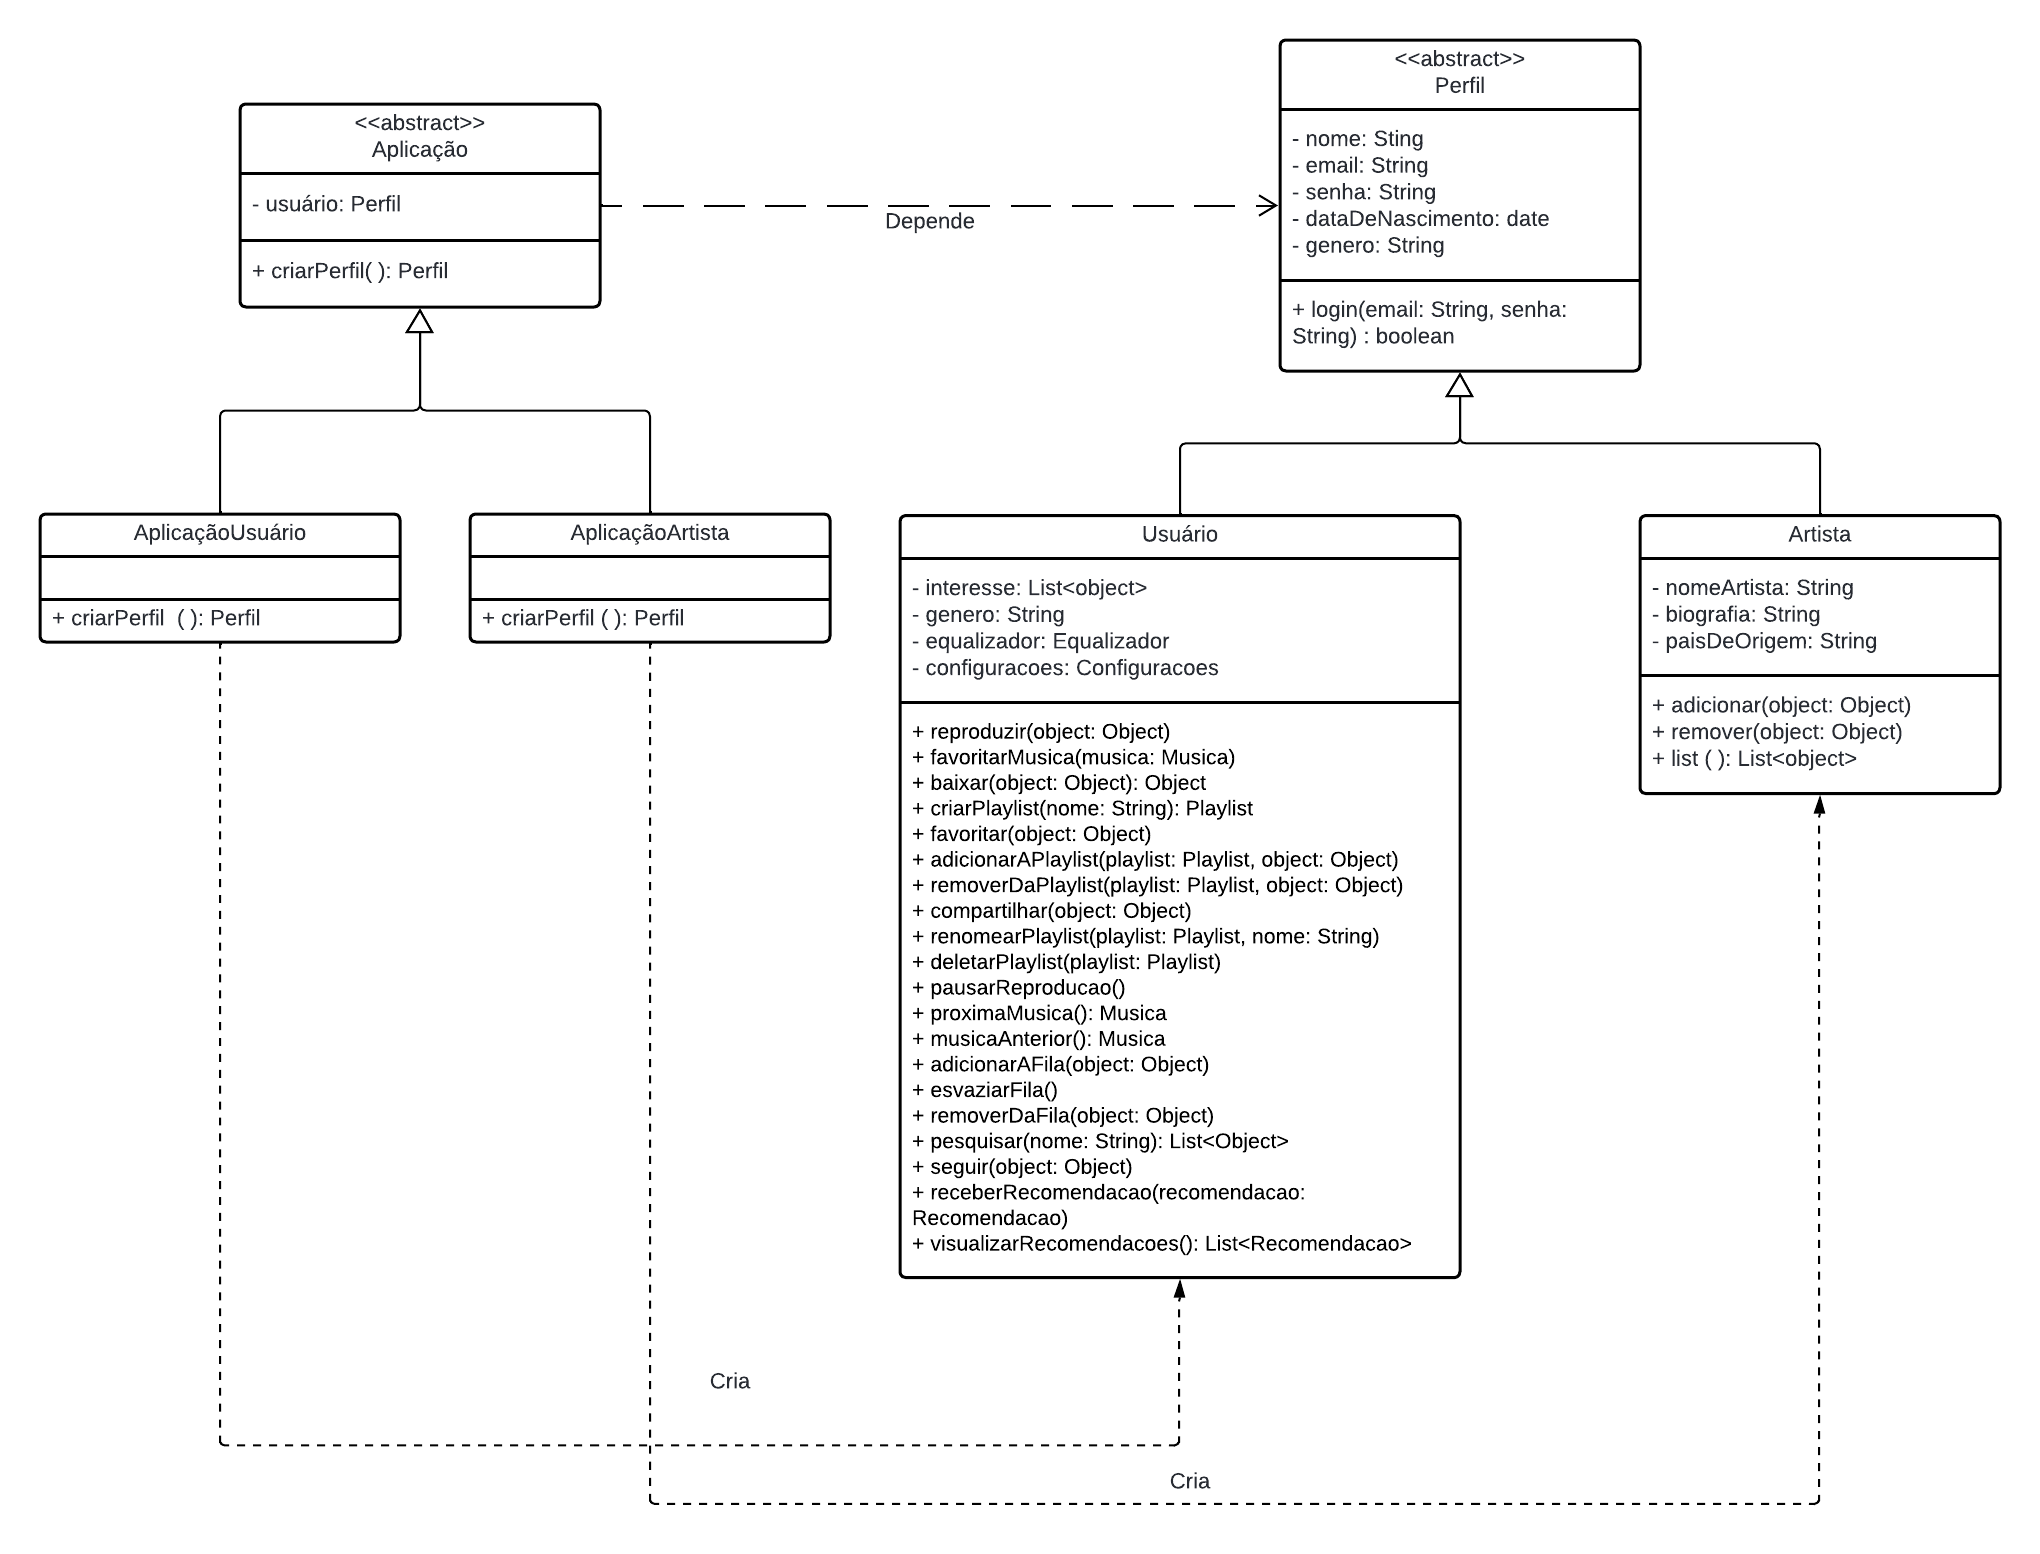
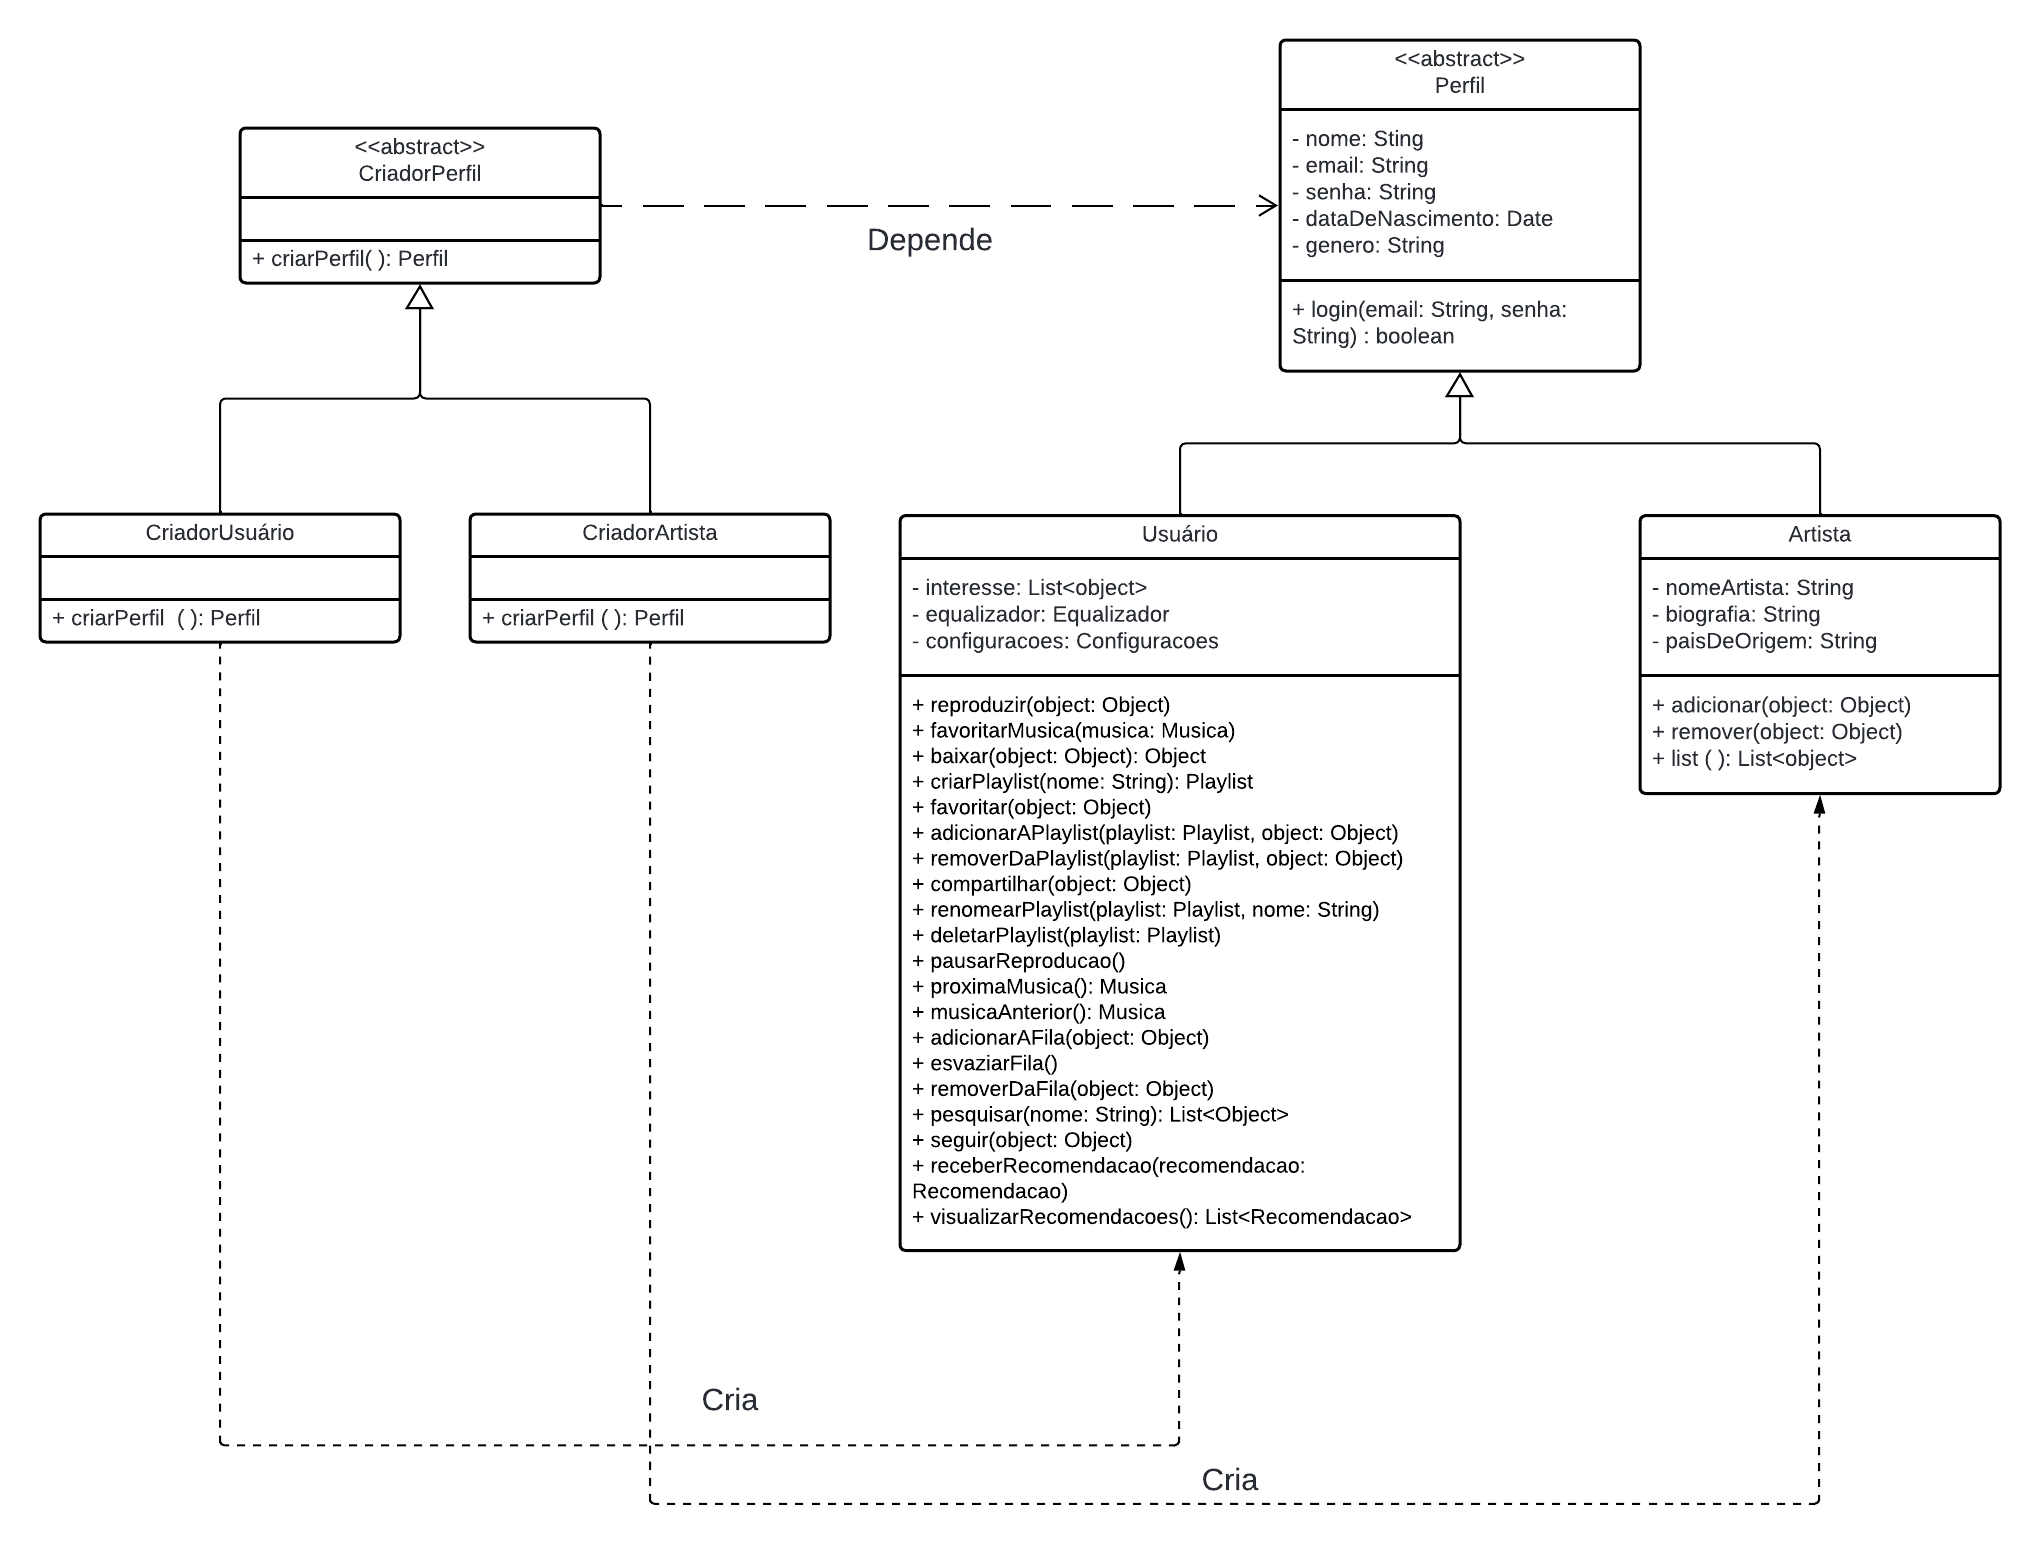
att: Terminando de atualizar factory method

diff --git a/docs/PadroesDeProjeto/GoFsCriacionais.md b/docs/PadroesDeProjeto/GoFsCriacionais.md
@@ -24,29 +24,28 @@ delegada.
 
 <div style="text-align: center">
   <img src="../Assets/EstruturaFactoryMethod.png" alt="Estrutura do Factory Method" title="Título da Imagem" />
-  <p>Figura 1: Estrutura do padrão Factory Method (Fonte: Refactoring Guru, 2014-2024)¹</p>
+  <p>Figura 1: Estrutura do padrão Factory Method (Fonte: Refactoring Guru, 2014-2024)²</p>
 </div>
 
 
 ### Metodologia
 
-Antes de descrever como foi realizada a modelagem e a implementação dos padrões criacionais utilizados, é importante ressaltar como a equipe foi organizada para a realização deste artefato. Foi criado um subgrupo composto por quatro pessoas: Limírio, Luis Miranda, Milena e Vinícius Mendes. Todos participaram ativamente através de discussões em grupo e na realização das atividades.
+Antes de descrever como foi realizada a modelagem e a implementação dos padrões criacionais utilizados, é importante ressaltar como a equipe foi organizada para a realização deste artefato. Foi criado um subgrupo composto por quatro pessoas: [Limírio Guimarães](https://github.com/LimirioGuimaraes), [Luis Miranda](https://github.com/LuisMiranda10), [Milena Baruc](https://github.com/MilenaBaruc) e [Vinícius Mendes](https://github.com/yabamiah). Todos participaram ativamente através de discussões em grupo e na realização das atividades.
 
-Para o desenvolvimento da modelagem do Factory Method no contexto do nosso projeto, realizamos uma reunião em grupo para discutir onde e como o padrão poderia ser aplicado. A vídeo dessa reunião pode ser acessada [aqui](). Durante essa reunião, utilizamos dois sites como referências teóricas para termos um embasamento adequado.
+Para o desenvolvimento da modelagem do Factory Method no contexto do nosso projeto, realizamos uma reunião em grupo para discutir onde e como o padrão poderia ser aplicado. A vídeo dessa reunião pode ser acessada [aqui](https://youtu.be/okhCMuSxa2w). Durante essa reunião, utilizamos dois sites como referências teóricas para termos um embasamento adequado.
 
-Decidimos que poderíamos utilizar o padrão Factory Method na criação da classe abstrata `Perfil`. Essa superclasse possui duas subclasses, `Usuário` e `Artista`, cujas instâncias mudam conforme o contexto, permitindo funcionalidades diferentes no aplicativo para cada tipo de perfil. A modelagem foi realizada pelos membros Luis Miranda e Vinicius Mendes, conforme visualizado na Figura 2.
+Decidimos que poderíamos utilizar o padrão Factory Method na criação da classe abstrata `Perfil`. Essa superclasse possui duas subclasses, `Usuário` e `Artista`, cujas instâncias mudam conforme o contexto, permitindo funcionalidades diferentes no aplicativo para cada tipo de perfil. A modelagem foi realizada pelos membros [Luis Miranda](https://github.com/LuisMiranda10) e [Vinícius Mendes](https://github.com/yabamiah), conforme visualizado na Figura 2.
 
 <div style="text-align: center">
   <img src="../Assets/ModelagemFactoryMethod.png" alt="Modelagem do padrão Factory Method" title="Título da Imagem" />
   <p>Figura 2: Modelagem do padrão Factory Method (Fonte: Luis Miranda e Vinícius Mendes, 2024)</p>
 </div>
 
-O desenvolvimento da implementação foi realizado em paralelo com a modelagem, sendo conduzido pelos mesmos membros da equipe. Esta implementação foi feita de forma colaborativa através da plataforma Discord, utilizando como referência o site [Dart Academy](https://dart.academy/creational-design-patterns-for-dart-and-flutter-factory-method/)², que possui exemplos de implementações em diversas linguagens de programação.
+O desenvolvimento da implementação foi realizado em paralelo com a modelagem, sendo conduzido pelos mesmos membros da equipe. Esta implementação foi feita de forma colaborativa através da plataforma Discord, utilizando como referência o site [Dart Academy](https://dart.academy/creational-design-patterns-for-dart-and-flutter-factory-method/)³, que possui exemplos de implementações em diversas linguagens de programação.
 
 Primeiro, foi criado um pseudocódigo para entender de maneira simplificada a lógica e a estrutura do código, que pode ser visualizado no Código 1. Em seguida, o pseudocódigo foi traduzido para a linguagem Dart, escolhida pela equipe para o desenvolvimento do projeto.
 
-"""
-// Classe base Perfil
+```dart
 abstract class Perfil {
     String? _nome;
     String? _email;
@@ -90,7 +89,7 @@ abstract class Perfil {
 
 }
 
-// Subclasse Usuário
+
 class Usuario extends Perfil {
     List<Objects>? _interesse;
     Equalizador? _equalizador;
@@ -98,16 +97,16 @@ class Usuario extends Perfil {
 
     Usuario(String nome, String email, String senha, Date dataDeNascimento, String genero, List<Objects> interesse, Equalizador equalizador, Configuracoes configuracoes) 
         : super(nome, email, senha, dataDeNascimento, genero) {
-        
+          
         this._interesse = interesse;
         this._equalizador = equalizador;
         this._configuracoes = configuracoes;
     }
-    
+      
     List<Objects>? get interesse => _interesse;
     Equalizador? get equalizador => _equalizador;
     Configuracoes? get configuracoes => _configuracoes;
-    
+      
     set interesse(List<Objects>? interesse) {
         _interesse = interesse;
     } 
@@ -123,7 +122,6 @@ class Usuario extends Perfil {
     }
 }
 
-// Subclasse Artista
 class Artista extends Perfil {
     String? _nomeArtista
     String? _biografia
@@ -131,7 +129,7 @@ class Artista extends Perfil {
 
     Artista(String nome, String email, String senha, Date dataDeNascimento, String genero, String nomeArtista, String biografia, String paisDeOrigem)
         : super(nome, email, senha, dataDeNascimento, genero) {
-        
+          
         this._nomeArtista = nomeArtista
         this._biografia = biografia
         this._paisDeOrigem = paisDeOrigem
@@ -151,7 +149,6 @@ class Artista extends Perfil {
 
 }
 
-// Criador do Perfil
 abstract class CriadorPerfil {
     Perfil criarPerfil(String nome, String email, String senha, Date dataDeNascimento, String genero)
     {
@@ -159,7 +156,6 @@ abstract class CriadorPerfil {
     }
 }
 
-// Subsclasse que cria um Usuario
 class CriadorUsuario extends CriadorPerfil {
     @override
     Perfil criarPerfil(String nome, String email, String senha, Date dataDeNascimento, String genero, List<Objects> interesse, Equalizador equalizador, Configuracoes configuracoes) {
@@ -167,11 +163,10 @@ class CriadorUsuario extends CriadorPerfil {
     }
 }
 
-// Subclasse que cria um Artista
 class CriadorArtista extends CriadorPerfil {
     @override
     Perfil criarPerfil(String nome, String email, String senha, Date dataDeNascimento, String genero, String nomeArtista, String biografia, String paisDeOrigem) {
-        return Artista(nome, email, senha, dataDeNascimento, genero, nomeArtista, biografia, paisDeOrigem);
+      return Artista(nome, email, senha, dataDeNascimento, genero, nomeArtista, biografia, paisDeOrigem);
     } 
 }
 
@@ -179,7 +174,7 @@ class Aplicacao {
     static CriadorPerfil? gerarCriador()
     {
         Perfil? tipo = readButtonPerfil(); 
-        
+          
         switch(tipo)
         {
             case Usuario:
@@ -191,7 +186,12 @@ class Aplicacao {
         }
     }
 }
-"""
+```
+
+<div style="text-align: center">
+  <p>Código 1: Possível implementação em código do Factory Method em Dart (Fonte: Luis Miranda e Vinícius Mendes, 2024)</p>
+</div>
+
 
 ## 3.2.1.2. Singleton
 ### Introdução
